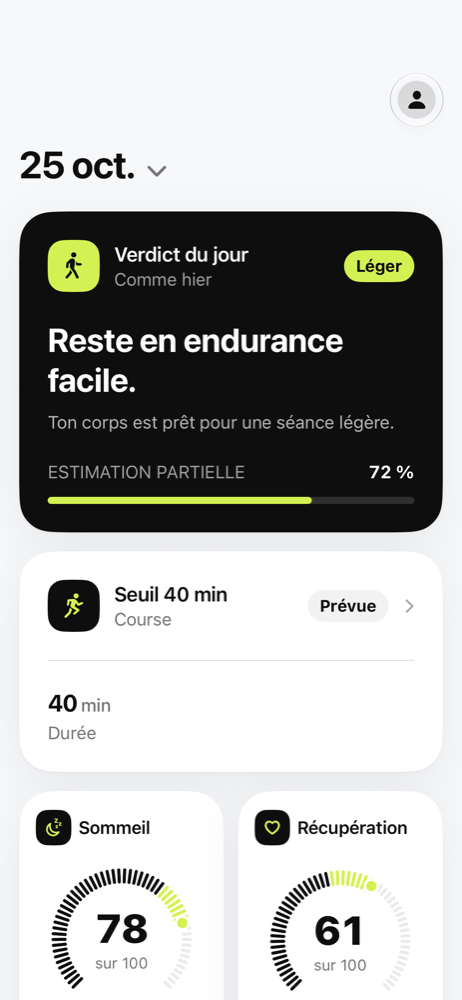
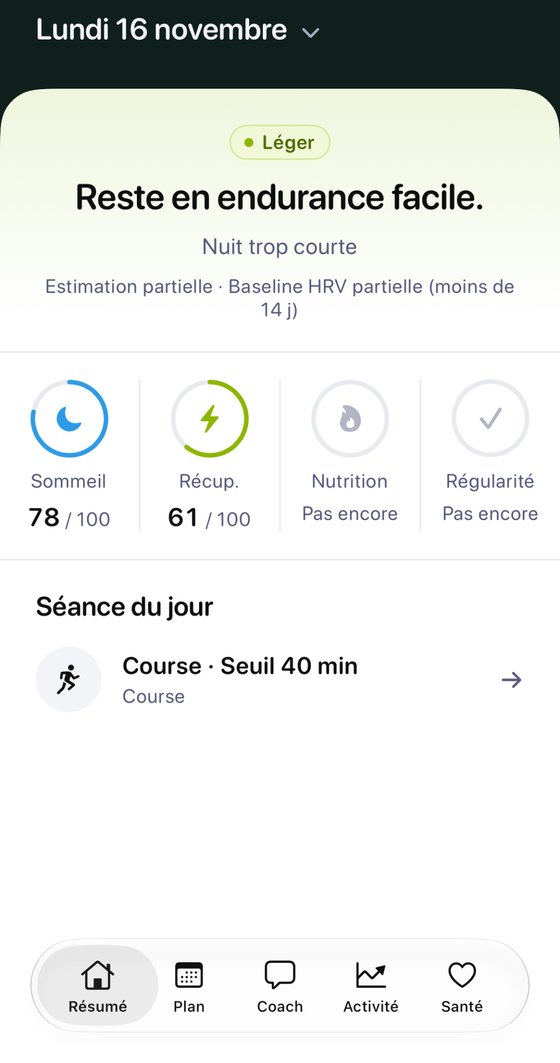
feat(hub): show the clinique résumé on the landing and drop the lime button

diff --git a/apps/hub/src/components/landing/landing-phone.tsx b/apps/hub/src/components/landing/landing-phone.tsx
@@ -4,7 +4,9 @@ import resume from './app-resume.png';
 /**
  * The app's Résumé on an iPhone: a capture of the real screen, rendered by the iOS app's own
  * views on its sample data (`TodayView` over `FixtureTodayClient`), so it is the product and not
- * a drawing of it. Re-capture it when Résumé changes; it shows example figures, said in its label.
+ * a drawing of it. Re-capture it when Résumé changes (`-SharpitScreenDemo today` on a Debug
+ * build, cropped under the status bar so no account's picture shows); it shows example figures,
+ * said in its label.
  */
 export function Phone() {
   return (
@@ -14,8 +16,8 @@ export function Phone() {
       data-phone
     >
       <Image
-        alt="Résumé : le verdict du jour « Reste en endurance facile », la séance prévue, le sommeil et la récupération."
-        className="block h-[600px] w-full rounded-[2.5rem] object-cover object-top"
+        alt="Résumé : le verdict du jour « Reste en endurance facile », le sommeil et la récupération en anneaux, la séance prévue."
+        className="block h-auto w-full rounded-[2.5rem]"
         sizes="300px"
         src={resume}
         priority

diff --git a/apps/hub/src/components/landing/landing-product.tsx b/apps/hub/src/components/landing/landing-product.tsx
@@ -184,7 +184,7 @@ function Closing() {
         </h2>
         <div className="mt-12 flex flex-wrap items-center gap-6" data-reveal>
           <a
-            className={buttonVariants({ size: 'lg', variant: 'highlight', className: 'px-5' })}
+            className={buttonVariants({ size: 'lg', variant: 'secondary', className: 'px-5' })}
             href={LANDING_CLOSING.cta.href}
           >
             {LANDING_CLOSING.cta.label}
